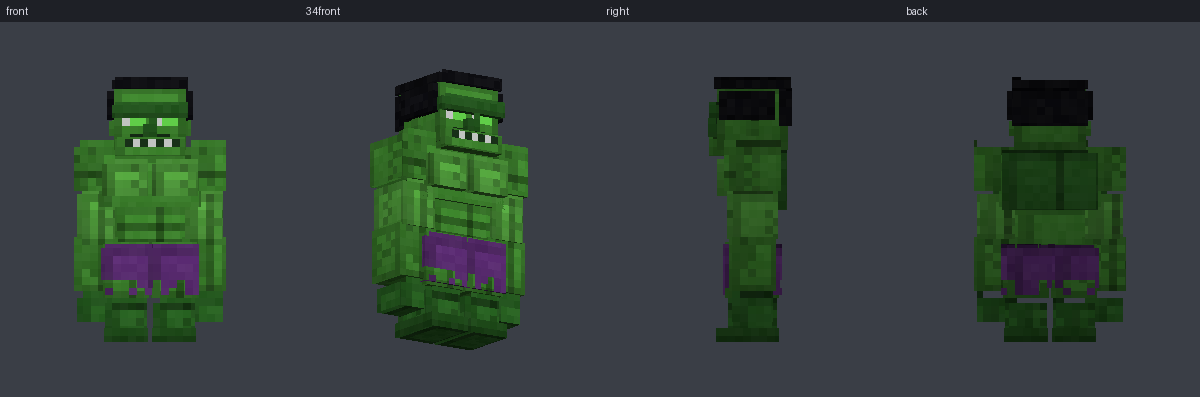
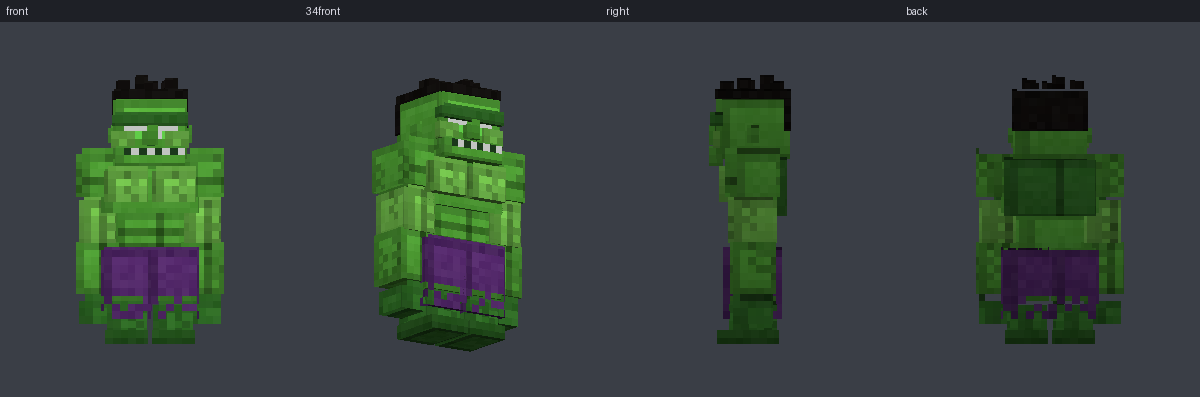
Restyle Hulk model after the 2003 film (brighter skin, rounder head, long torn pants)
Claude-Session: https://claude.ai/code/session_0188b5ePPcD9SacDEbjpCJ83

diff --git a/heroes/tools/models/hulk_model.py b/heroes/tools/models/hulk_model.py
@@ -1,6 +1,6 @@
 #!/usr/bin/env python3
 """
-Generates the Hulk render layer: assets/hulk/geo/hulk.geo.json and assets/hulk/textures/models/hulk.png.
+Generates the Hulk render layer (modelled on the look of the 2003 film: bright glossy green, round head, long torn purple pants): assets/hulk/geo/hulk.geo.json and assets/hulk/textures/models/hulk.png.
 
 Run from the repository's `heroes` folder:  python3 tools/models/hulk_model.py
 Preview:  python3 tools/modelpreview.py <geo> <png> out.png        (the model alone; the player body is removed in game)
@@ -12,11 +12,11 @@ import sys
 sys.path.insert(0, os.path.dirname(__file__))
 from mc_model import Callback, Flat, ModelBuilder, Skin, Torn  # noqa: E402
 
-GREEN = (78, 164, 58)
-DARK = (52, 122, 44)
-LIGHT = (96, 186, 72)
-PURPLE = (112, 56, 140)
-HAIR = (22, 22, 28)
+GREEN = (96, 192, 64)
+DARK = (60, 136, 48)
+LIGHT = (132, 220, 88)
+PURPLE = (104, 52, 132)
+HAIR = (26, 22, 20)
 WHITE = (240, 244, 240)
 
 
@@ -49,22 +49,24 @@ def build():
             return (24, 50, 24, 255)          # mouth line
         return None
 
-    m.cube("armorHead", [-4.5, 24.2, -4.5], [9, 8, 9], Callback(skin(GREEN, seed=2), face))
-    m.cube("armorHead", [-4.8, 28.2, -5.4], [9.6, 2, 1.6], skin(DARK, seed=3))                    # heavy brow
-    m.cube("armorHead", [-0.9, 25.8, -5.6], [1.8, 2.4, 1.2], skin(DARK, seed=4))                  # nose
+    m.cube("armorHead", [-4.8, 24.0, -4.8], [9.6, 8, 9.6], Callback(skin(GREEN, seed=2, highlight=1.12), face))   # round skull
+    m.cube("armorHead", [-5.0, 25.4, -5.2], [3.0, 2.2, 1.0], skin(LIGHT, seed=30))                              # cheeks
+    m.cube("armorHead", [2.0, 25.4, -5.2], [3.0, 2.2, 1.0], skin(LIGHT, seed=31))
+    m.cube("armorHead", [-4.9, 28.2, -5.5], [9.8, 1.8, 1.6], skin(DARK, seed=3))                                # heavy brow
+    m.cube("armorHead", [-1.0, 25.8, -5.7], [2.0, 2.6, 1.2], skin(GREEN, seed=4))                               # broad flat nose
 
     def teeth(face_name, x, y, w, h, base):
         if face_name == "north" and y == 0 and 1 <= x <= w - 2:
-            return WHITE + (255,) if x % 2 == 0 else (30, 60, 30, 255)
+            return WHITE + (255,) if x % 2 == 0 else (34, 70, 34, 255)
         return None
 
-    m.cube("armorHead", [-4.4, 23.4, -5.4], [8.8, 2.4, 1.8], Callback(skin(GREEN, seed=5), teeth))  # jutting jaw
-    m.cube("armorHead", [-4.8, 31.8, -4.8], [9.6, 1.6, 9.6], Flat(HAIR, seed=6))                  # hair
-    m.cube("armorHead", [-4.8, 27.2, 3.4], [9.6, 4.8, 1.6], Flat(HAIR, seed=7))
-    m.cube("armorHead", [-5.4, 28.0, -4.2], [1.0, 3.6, 7.0], Flat(HAIR, seed=8))                  # temples
-    m.cube("armorHead", [4.4, 28.0, -4.2], [1.0, 3.6, 7.0], Flat(HAIR, seed=9))
-    m.cube("armorHead", [-5.2, 26.0, -0.8], [0.8, 2.2, 1.6], skin(GREEN, seed=10))                # ears
-    m.cube("armorHead", [4.4, 26.0, -0.8], [0.8, 2.2, 1.6], skin(GREEN, seed=11))
+    m.cube("armorHead", [-4.6, 23.0, -5.6], [9.2, 2.6, 1.8], Callback(skin(GREEN, seed=5), teeth))             # wide jutting jaw
+    m.cube("armorHead", [-4.9, 31.7, -4.9], [9.8, 1.3, 9.8], Flat(HAIR, seed=6))                               # short hair
+    m.cube("armorHead", [-4.9, 27.6, 4.0], [9.8, 4.2, 1.0], Flat(HAIR, seed=7))
+    for i, (hx, hz, hh) in enumerate([(-3.6, -2.0, 1.4), (0.2, 1.0, 1.8), (2.6, -1.5, 1.2), (-1.0, -4.2, 1.0), (-3.2, 2.2, 1.0)]):
+        m.cube("armorHead", [hx, 33.0, hz], [1.8, hh, 1.8], Flat(HAIR, seed=40 + i))                           # spiky tufts
+    m.cube("armorHead", [-5.5, 26.0, -0.8], [0.8, 2.4, 1.6], skin(GREEN, seed=10))                              # ears
+    m.cube("armorHead", [4.7, 26.0, -0.8], [0.8, 2.4, 1.6], skin(GREEN, seed=11))
 
     # ------------------------------------------------------------------ body
     m.cube("armorBody", [-3.8, 23.6, -2.8], [7.6, 3.2, 5.6], skin(GREEN, seed=12))                # neck and traps
@@ -76,8 +78,8 @@ def build():
     m.cube("armorBody", [-7.2, 14.2, -2.2], [2.0, 6.8, 4.4], skin(DARK, seed=17))                 # lats
     m.cube("armorBody", [5.2, 14.2, -2.2], [2.0, 6.8, 4.4], skin(DARK, seed=18))
     m.cube("armorBody", [-6.0, 16.6, 2.8], [12.0, 7.6, 1.6], skin(DARK, seed=19, lines=(("v", "south", 0.5),)))  # back
-    m.cube("armorBody", [-5.4, 7.0, -3.3], [10.8, 5.0, 6.6], Flat(PURPLE, seed=20))      # shorts
-    m.cube("armorBody", [-5.5, 11.2, -3.4], [11.0, 1.2, 6.8], Flat((84, 40, 108), seed=21))       # waistband
+    m.cube("armorBody", [-5.4, 7.0, -3.3], [10.8, 5.0, 6.6], Flat(PURPLE, seed=20, noise=7))      # shorts
+    m.cube("armorBody", [-5.5, 11.0, -3.4], [11.0, 1.4, 6.8], Torn((80, 38, 104), depth=1, seed=21))       # ragged waistband
 
     # ------------------------------------------------------------------ arms (right arm is at -x; the left is mirrored)
     arm = [
@@ -92,10 +94,10 @@ def build():
 
     # ------------------------------------------------------------------ legs
     legs = [
-        ([-5.9, 5.6, -3.4], [5.8, 7.0, 6.8], skin(GREEN, seed=26, veins=1, lines=(("v", "north", 0.5),))),                        # thigh
-        ([-5.6, 0.8, -3.1], [5.2, 5.0, 6.2], skin(DARK, seed=27, veins=1, lines=(("h", "north", 0.1),))),                         # calf
+        ([-5.9, 5.6, -3.4], [5.8, 7.0, 6.8], skin(GREEN, seed=26)),                        # thigh (under the pants)
+        ([-5.6, 0.4, -3.1], [5.2, 5.4, 6.2], skin(DARK, seed=27, veins=1)),                # calf and shin
         ([-5.8, 0.0, -4.6], [5.6, 1.8, 8.0], skin(DARK, seed=28, edge=0.7)),               # bare foot
-        ([-6.2, 6.0, -3.7], [6.4, 6.4, 7.4], Torn(PURPLE, depth=3, seed=29)),               # shorts leg
+        ([-6.3, 3.2, -3.8], [6.6, 9.4, 7.6], Torn(PURPLE, depth=4, seed=29, noise=7)),      # long tattered pants
     ]
     for origin, size, painter in legs:
         c = m.cube("armorRightLeg", origin, size, painter)

diff --git a/heroes/README.md b/heroes/README.md
@@ -224,7 +224,7 @@ Models are authored in code so they can be looked at and improved without launch
 
 - `tools/modelpreview.py model.geo.json texture.png out.png` renders a front / 3/4 / side / back preview sheet of any GeckoLib cube model (needs `numpy` and `Pillow`). Calibrated against the vanilla Steve skin.
 - `tools/models/mc_model.py` is a small builder: describe cubes and how to paint them and it packs the texture, paints it and writes the `.geo.json` and `.png`.
-- `tools/models/hulk_model.py` generates the Hulk model and texture (re-run it after editing, then re-run the preview). Latest preview: `previews/hulk.png`.
+- `tools/models/hulk_model.py` generates the Hulk model and texture, styled after the 2003 film Hulk (bright glossy green, round head with short dark hair, long torn purple pants, bare feet) (re-run it after editing, then re-run the preview). Latest preview: `previews/hulk.png`.
 
 The generated files are ordinary GeckoLib assets, so you can still open them in Blockbench and edit or replace them; keep the bone names (`armorHead`, `armorBody`, `armorRightArm`, `armorLeftArm`, `armorRightLeg`, `armorLeftLeg`).
 While the Hulk power is active the player's own body is hidden (`palladium:remove_body_part`), so only the Hulk model shows.
